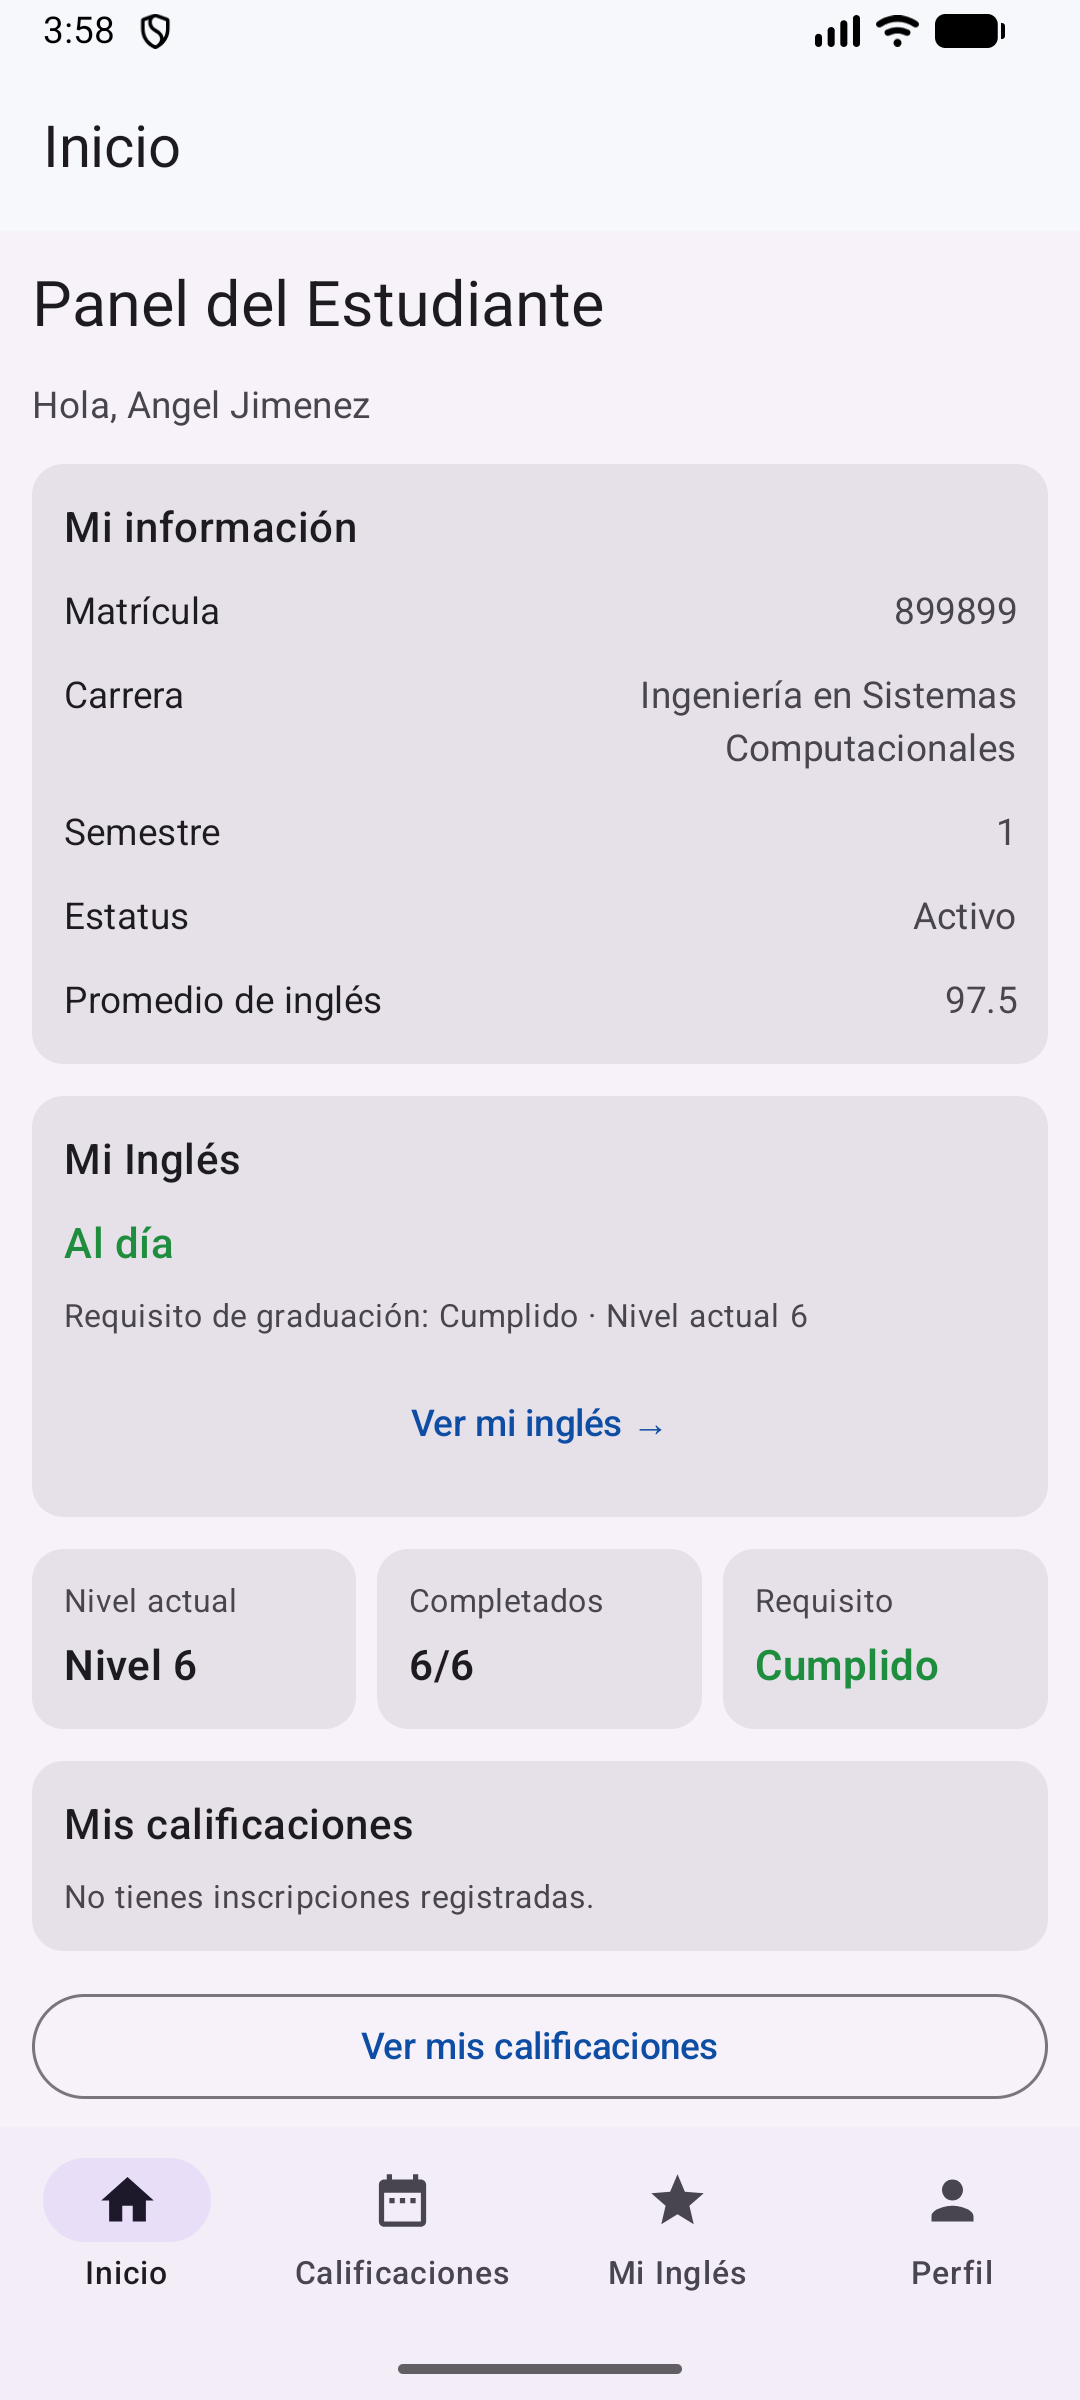
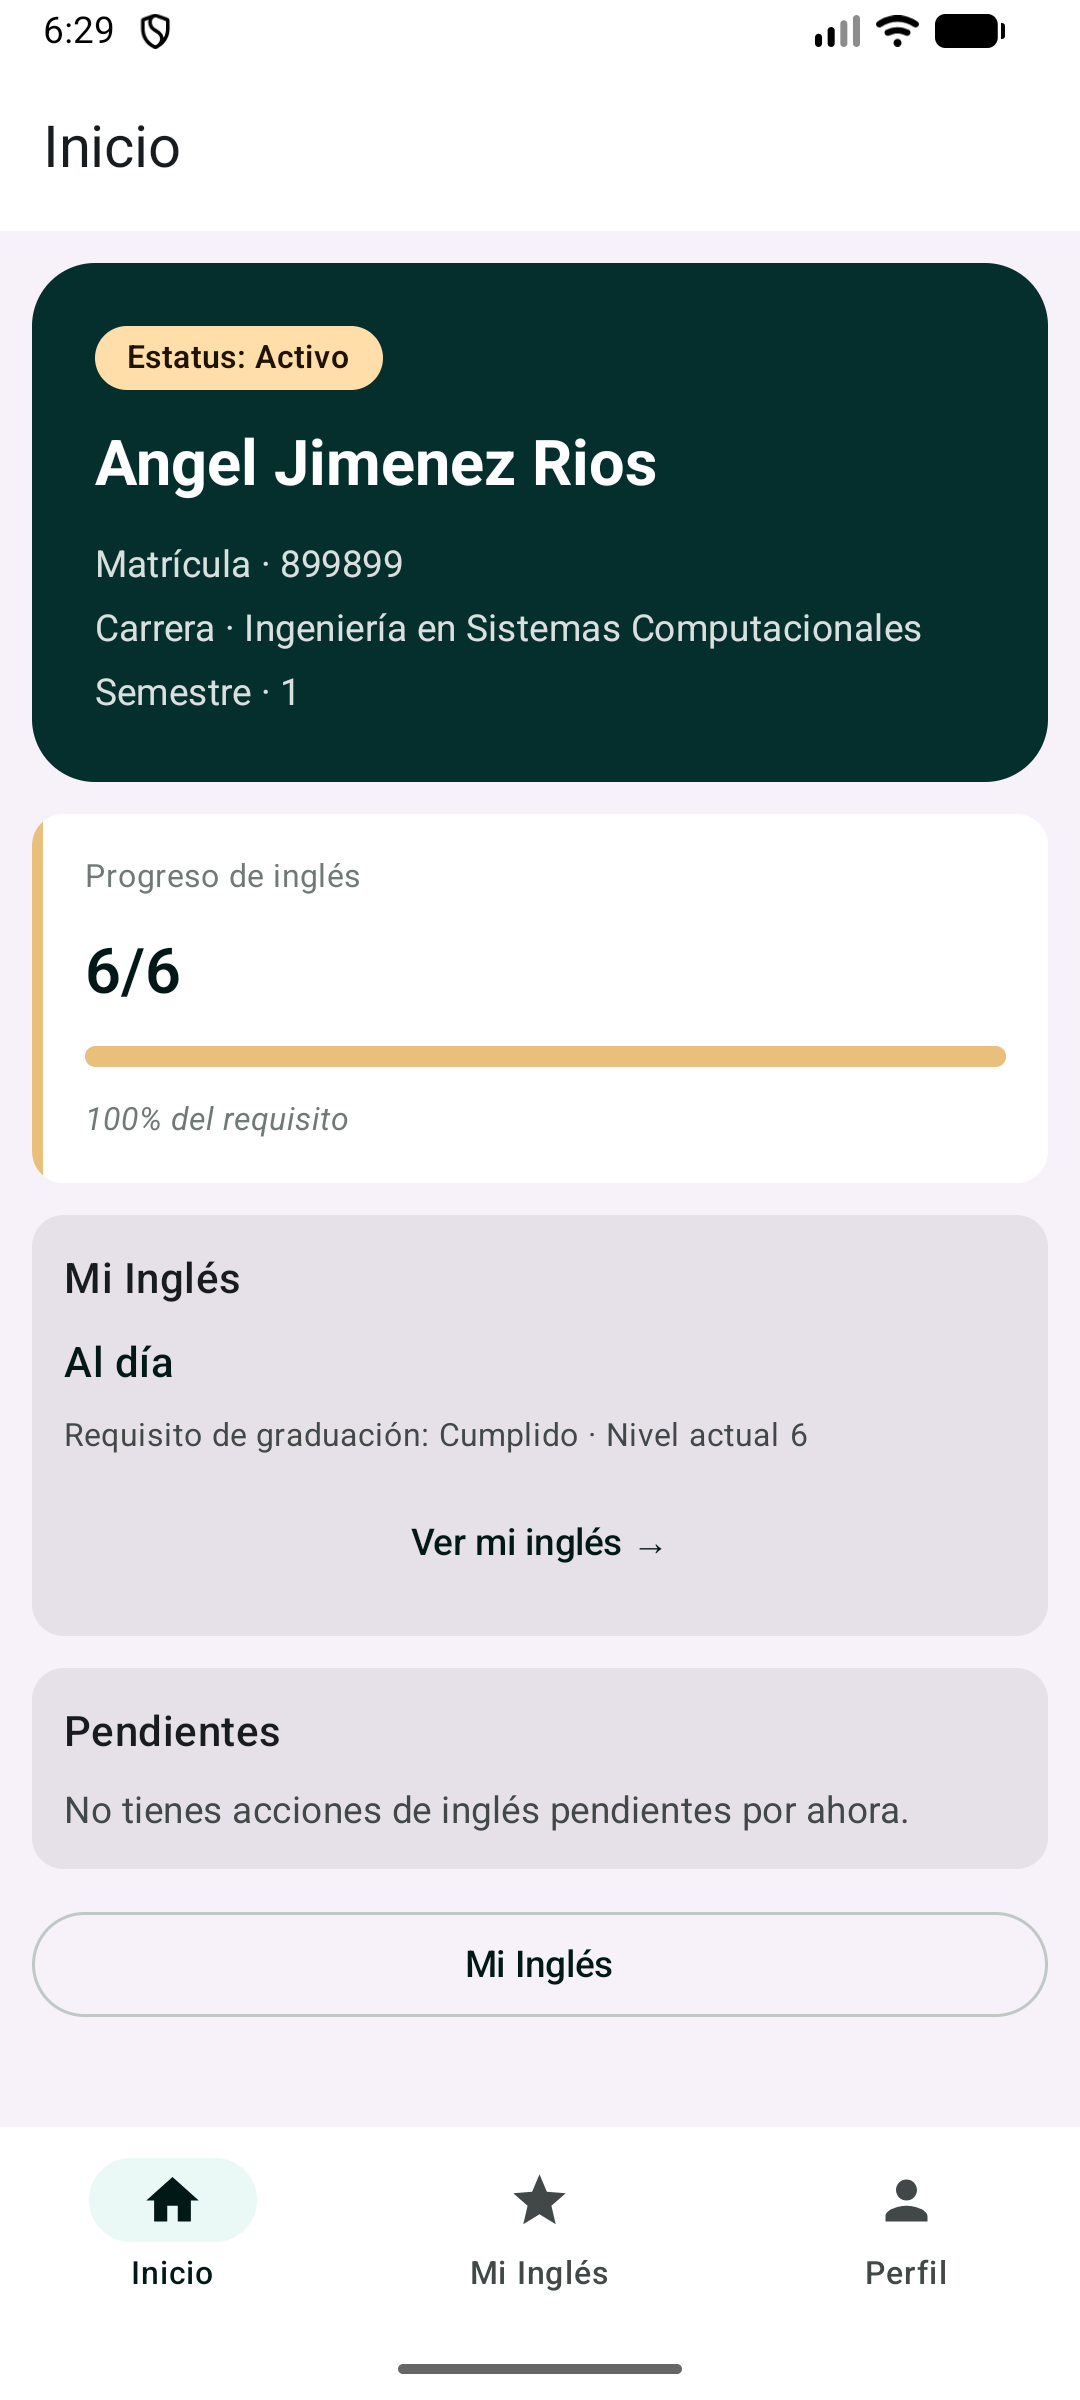
docs(design-system): cierra D5e con capturas paridad 3 tabs iOS/Android.
Regenera assets post-D5c/D5d, renombra a 01-inicio/02-ingles/03-perfil y retira capturas obsoletas de Calificaciones SIS.

diff --git a/docs/CAPTURAS-PARIDAD-UX.md b/docs/CAPTURAS-PARIDAD-UX.md
@@ -1,47 +1,62 @@
 # Capturas lado a lado — Capa 4-UX (rol alumno)
 
-**Última actualización:** 2026-07-07
+**Última actualización:** 2026-07-07 (D5c–D5e)
 
 Checklist para cerrar el criterio de aceptación de [ROADMAP.md](ROADMAP.md) § Capa 4. Contrato de paridad: repo `sipi-mobile-android` → `contexto/DISENO-PARIDAD.md`.
 
 ## Preparación
 
-1. Mismo alumno de prueba en iOS y Android (mismos datos de `english-status`).
+1. Mismo alumno de prueba en iOS y Android (mismos datos de `english-status`). Referencia actual: **Angel** · matrícula **899899**.
 2. Modo claro; fuente del sistema en tamaño estándar.
 3. Guardar capturas en `docs/images/paridad-ux/`.
-4. Scripts: `./scripts/capture-android-paridad.sh` (automático) · `./scripts/capture-ios-paridad.sh <slug>` (manual por pantalla).
+4. Scripts:
+   - Android (automático, 3 tabs): `./scripts/capture-android-paridad.sh [device-id]`
+   - Android Mi Inglés (scroll cursos): incluido al final del script o manual con swipe + `adb exec-out screencap`.
+   - iOS (manual por pantalla): iniciar sesión en Simulador → `./scripts/capture-ios-paridad.sh <slug>`.
 
 ## Pantallas obligatorias (3 tabs)
 
 | # | Pantalla | iOS | Android | Notas |
 |---|----------|-----|---------|-------|
-| 1 | Inicio (Dashboard) | ✓ | ✓ | `01-inicio-*.png` — sin sección Calificaciones SIS |
-| 2 | Mi Inglés | pendiente | pendiente | `02-ingles-*.png`; iOS extra scroll: `02-ingles-ios-cursos.png` |
+| 1 | Inicio (Dashboard) | ✓ | ✓ | `01-inicio-*.png` — hero D5c, sin Calificaciones SIS |
+| 2 | Mi Inglés | ✓ | ✓ | `02-ingles-*.png`; scroll cursos: `02-ingles-*-cursos.png` (Android ✓; iOS opcional) |
 | 3 | Perfil | ✓ | ✓ | Datos académicos + sesión + logout |
 
-**Obsoleto (2026-07-07):** tab y capturas `02-calificaciones-*` — Calificaciones SIS fuera de alcance (paridad web 2026-06-24).
+**Obsoleto (2026-07-07):** tab y capturas `02-calificaciones-*` — eliminadas.
 
 ## Archivos en `docs/images/paridad-ux/`
 
 | Pantalla | iOS | Android |
 |----------|-----|---------|
-| Inicio | `01-inicio-ios.png` | `01-inicio-android.png` |
-| Mi Inglés (arriba) | `02-ingles-ios.png` | `02-ingles-android.png` |
-| Mi Inglés (cursos) | `02-ingles-ios-cursos.png` | — |
-| Perfil | `03-perfil-ios.png` | `03-perfil-android.png` |
-| Solicitar examen (sheet/dialog) | — | — | N/A alumno prueba (requisito cumplido); repetir con alumno sin CTA |
+| Inicio | `01-inicio-ios.png` ✓ | `01-inicio-android.png` ✓ |
+| Mi Inglés (arriba) | `02-ingles-ios.png` ✓ | `02-ingles-android.png` ✓ |
+| Mi Inglés (cursos) | `02-ingles-ios-cursos.png` *(opcional)* | `02-ingles-android-cursos.png` ✓ |
+| Perfil | `03-perfil-ios.png` ✓ | `03-perfil-android.png` ✓ |
+| Solicitar examen (sheet/dialog) | — | — | N/A alumno prueba (requisito cumplido) |
 | Solicitar curso (sheet/dialog) | — | — | Idem |
+
+## iOS — pasos manuales (D5e pendiente)
+
+1. Instalar build reciente en Simulador (`xcodebuild` + `simctl install`).
+2. Iniciar sesión (usuario **Angel** u otro alumno con mismos datos que Android).
+3. Ejecutar por pantalla:
+   ```bash
+   ./scripts/capture-ios-paridad.sh 01-inicio
+   ./scripts/capture-ios-paridad.sh 02-ingles
+   ./scripts/capture-ios-paridad.sh 02-ingles-cursos   # tras scroll a exámenes/cursos
+   ./scripts/capture-ios-paridad.sh 03-perfil
+   ```
 
 ## Criterios visuales (pass/fail)
 
 - [x] Espaciado `md` (12px) entre cards/secciones
-- [x] Radio de card 12px
-- [x] Sin UUID/código técnico como título — títulos legibles en Mi Inglés (2026-07-07)
+- [x] Radio de card 12px; hero Inicio 24px (D5c)
+- [x] Sin UUID/código técnico como título — títulos legibles en Mi Inglés
 - [x] Enums en español — `humanizeEnum` en tipo de ingreso; rol oculto en Perfil alumno
 - [x] Un solo CTA primario en Mi Inglés (estado cumplido: sin CTA duplicado)
-- [ ] **3 tabs**: Inicio · Mi Inglés · Perfil (homologación código ✓ 2026-07-07; regenerar capturas)
+- [x] **3 tabs**: Inicio · Mi Inglés · Perfil (iOS + Android ✓ 2026-07-07)
 - [x] Logout solo en Perfil
-- [ ] Inicio sin listado ni CTA de Calificaciones SIS
+- [x] Inicio sin listado ni CTA de Calificaciones SIS
 
 ## Web (referencia Stitch W4 — no bloqueante para paridad móvil)
 

diff --git a/docs/ROADMAP.md b/docs/ROADMAP.md
@@ -140,29 +140,29 @@ Definir una **plantilla común** por pantalla y aplicarla en ambas plataformas.
 
 #### D5b — Theme / chrome global
 
-- [ ] **Tab bar** y **navigation bar**: tint `primary` (#001917).
-- [ ] Botón primario: fondo `primary`, texto `onPrimary`.
-- [ ] Botón secundario / cancelar: borde `outlineVariant`, sin grises sueltos.
+- [x] **Tab bar** y **navigation bar**: tint `primary` (#001917).
+- [x] Botón primario: fondo `primary`, texto `onPrimary`.
+- [x] Botón secundario / cancelar: borde `outlineVariant`, sin grises sueltos.
 
 #### D5c — Tab Inicio (hero + métricas)
 
 Reutilizar datos ya mostrados; reskin como web `DashboardStudent` W4b:
 
-- [ ] **Hero** `primaryContainer`: nombre completo, estatus, matrícula, carrera, semestre.
-- [ ] **Card progreso inglés** (si `english-status` ya en Inicio): barra gold + link a tab Mi Inglés.
-- [ ] **Pendientes**: lista derivada de las mismas reglas que `buildEnglishAlerts` (textos ya en cliente móvil — solo estilo Stitch).
+- [x] **Hero** `primaryContainer`: nombre completo, estatus, matrícula, carrera, semestre.
+- [x] **Card progreso inglés** (si `english-status` ya en Inicio): barra gold + link a tab Mi Inglés.
+- [x] **Pendientes**: lista derivada de las mismas reglas que `buildEnglishAlerts` (textos ya en cliente móvil — solo estilo Stitch).
 
 #### D5d — Tab Mi Inglés
 
-- [ ] Indicador circular o barra de niveles con `tertiaryFixedDim` (como gauge web).
-- [ ] Chips de estado: gold pendiente/pago, `error-container` rechazo, `primaryFixed` al día.
-- [ ] `NextStepCard` / CTA: borde o fondo acento gold; botón primario verde midnight.
+- [x] Indicador circular o barra de niveles con `tertiaryFixedDim` (como gauge web).
+- [x] Chips de estado: gold pendiente/pago, `error-container` rechazo, `primaryFixed` al día.
+- [x] `NextStepCard` / CTA: borde o fondo acento gold; botón primario verde midnight.
 
 #### D5e — Capturas y cierre
 
-- [ ] Regenerar capturas § [CAPTURAS-PARIDAD-UX.md](CAPTURAS-PARIDAD-UX.md) (Inicio, Mi Inglés, Perfil).
-- [ ] Verificar: sin UUID visible; 3 tabs; logout solo Perfil.
-- [ ] `compileDebugKotlin` + build iOS en verde.
+- [x] Regenerar capturas § [CAPTURAS-PARIDAD-UX.md](CAPTURAS-PARIDAD-UX.md) (Inicio, Mi Inglés, Perfil). **iOS + Android ✓ 2026-07-07** (scroll cursos iOS opcional).
+- [x] Verificar: sin UUID visible; 3 tabs; logout solo Perfil (Android capturas D5).
+- [x] `compileDebugKotlin` + build iOS en verde (2026-07-07).
 
 #### Opcional D5f — Tipografía Manrope
 
